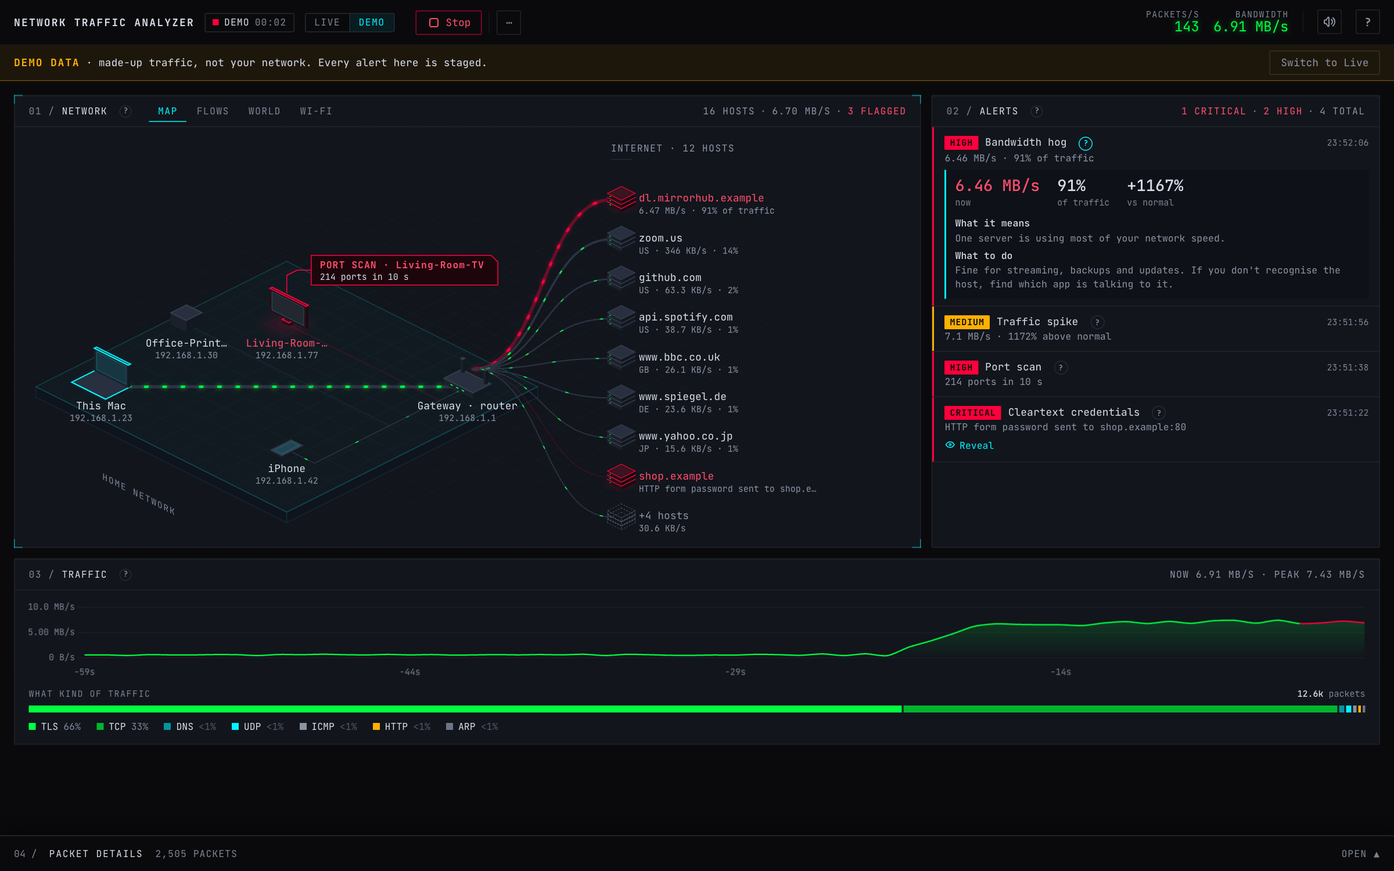
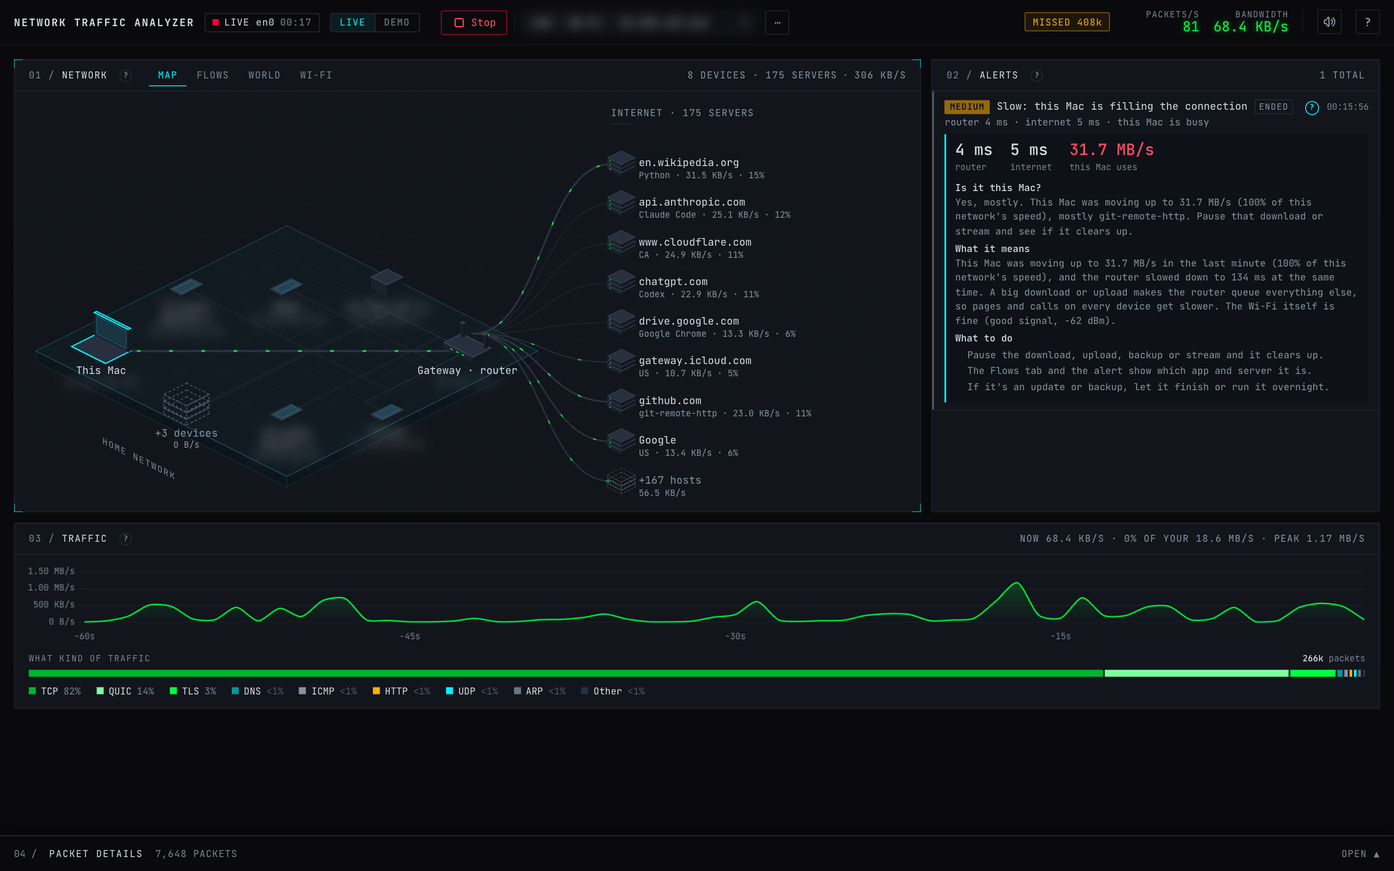
Take the README screenshots from a live capture, with private details blurred
scripts/capture_screenshots.py now photographs the live dashboard instead of
the demo replay. It reuses the recorder's privacy filter (other devices,
this Mac's and the router's addresses, hardware addresses, the hex dump),
extends it to the address card and the Wi-Fi tab, and refuses to save a
picture if anything private is readable or a blur isn't actually rendered
(the dashboard's CSP blocks the filter's style unless bypassed). New
address-card screenshot; the old filter screenshot is gone. README text
and screenshot captions describe the live features, and the World tab
counts servers like the rest of the app.

diff --git a/frontend/js/geomap.js b/frontend/js/geomap.js
@@ -117,7 +117,7 @@ export class GeoMap {
     if (arrived) this.onArrive?.();
     const countries = new Set(items.map((i) => i.cc).filter(Boolean));
     this.stat.textContent = items.length
-      ? `${items.length} HOSTS · ${countries.size} COUNTRIES`
+      ? `${items.length} SERVERS · ${countries.size} COUNTRIES`
       : "";
   }
 

diff --git a/scripts/capture_screenshots.py b/scripts/capture_screenshots.py
@@ -1,18 +1,26 @@
-"""Capture the README screenshots and demo GIF from a running demo server.
+"""Take the README screenshots and GIF from a LIVE capture of this Mac.
 
-1. Start the demo (replay only, so no real traffic ends up in the images, and
-   synthetic Wi-Fi readings so your real network details stay out too):
-       NTA_TOKEN=demo-screenshots-0123 NTA_WIFI_DEMO=1 \
-         scripts/run.sh --replay samples/demo.pcap --loop
+1. Start a live capture with a known token (needs ChmodBPF or sudo):
+       NTA_TOKEN=live-screenshots-0123 scripts/run.sh
 2. In another terminal:
-       NTA_TOKEN=demo-screenshots-0123 .venv/bin/python scripts/capture_screenshots.py
+       NTA_TOKEN=live-screenshots-0123 .venv/bin/python scripts/capture_screenshots.py
 
-Uses your installed Google Chrome through Playwright (no browser download).
+It browses a few public sites in the background so there is always traffic, and runs the
+Wi-Fi tab's speed test once (about 20 s and a few hundred MB), which also shows the
+"this Mac is filling the connection" alert and the speed-limit line.
+
+Privacy: these are pictures of a real network. The page blurs other devices' names and
+addresses, this Mac's own addresses, the router's address, hardware addresses and the hex
+dump (the same filter scripts/record_demo.py uses, plus the address card and the Wi-Fi tab).
+Internet server names stay visible. Before saving anything it checks every visible piece of
+text for another device's name or this Mac's addresses and stops if it finds one. Look at the
+pictures before you publish them anyway.
 """
 
 from __future__ import annotations
 
 import io
+import json
 import os
 import sys
 import time
@@ -21,23 +29,84 @@ from pathlib import Path
 from PIL import Image
 from playwright.sync_api import Page, sync_playwright
 
+sys.path.insert(0, str(Path(__file__).resolve().parent))
+from record_demo import PRIVACY_JS, Traffic, own_addresses  # noqa: E402
+
 ROOT = Path(__file__).resolve().parents[1]
 OUT = ROOT / "docs" / "screenshots"
 BASE = os.environ.get("NTA_URL", "http://localhost:8000")
 TOKEN = os.environ.get("NTA_TOKEN", "")
 SCALE = float(os.environ.get("NTA_SHOT_SCALE", "1.5"))
+IFACE = os.environ.get("NTA_IFACE", "en0")
+SPEED_TEST = os.environ.get("NTA_SPEED_TEST", "1") != "0"
+
+# Private addresses and hardware addresses, anywhere in a piece of text.
+PRIV_SOURCE = (r"(^|[^0-9a-f:])(10\.\d|192\.168\.|172\.(1[6-9]|2\d|3[01])\.|fe80:"
+               r"|[0-9a-f]{1,2}(:[0-9a-f]{1,2}){5})")
+
+# The parts of the dashboard that are newer than the recorder's filter: the address card,
+# the Wi-Fi tab, and the labels under This Mac and the router.
+EXTRA_JS = """
+(() => {
+  if (window.__extraPrivacy) return;
+  window.__extraPrivacy = true;
+  const PRIV = new RegExp(PRIV_SOURCE, 'i');
+  const own = () => (window.__own || []).map((x) => x.toLowerCase());
+  const blur = (el, on) => el.classList.toggle('pn-blur', !!on);
+  // This Mac's and the router's addresses under their labels: a style rule, so a label the
+  // map has just redrawn is never visible for a frame.
+  const st = document.createElement('style');
+  st.textContent = '.node[data-key="self"] .node-sub, .node[data-key="gw"] .node-sub'
+    + '{filter:blur(7px)!important}';
+  document.head.append(st);
+  const risky = (t) => PRIV.test(t) || own().some((x) => t.toLowerCase().includes(x))
+    || (window.__keys || []).some((k) => k && t.includes(k));
+  const run = () => {
+    for (const n of document.querySelectorAll('.node[data-key="self"], .node[data-key="gw"]'))
+      for (const t of n.querySelectorAll('.node-sub')) blur(t, true);
+    const sel = '.ipcard__ip, .ipcard__summary, .ipcard__facts dd, .tile-sub, .wifi-note, '
+      + '.verdict, .wifi-help dd, .alert-row .why, .alert-row .explain span, .hc-sub, '
+      + '.hovercard div, .prow .info, .insp-body .meta, .chip, #nv-stat';
+    for (const el of document.querySelectorAll(sel)) blur(el, risky(el.textContent || ''));
+    // A card about another device names it in the title: hide the whole card.
+    const card = document.querySelector('.ipcard');
+    if (card && !card.hidden) {
+      const title = card.querySelector('.ipcard__title')?.textContent || '';
+      blur(card, (window.__keys || []).some((k) => k && title.includes(k)));
+    }
+  };
+  setInterval(run, 120);
+  run();
+})();
+""".replace("PRIV_SOURCE", json.dumps(PRIV_SOURCE))
 
 
-def wait_for(page: Page, predicate_js: str, timeout: float = 150) -> None:
-    deadline = time.time() + timeout
-    while time.time() < deadline:
-        if page.evaluate(predicate_js):
-            return
+def wait_for(page: Page, js: str, timeout: float = 120) -> bool:
+    end = time.time() + timeout
+    while time.time() < end:
+        if page.evaluate(js):
+            return True
         time.sleep(0.5)
-    raise TimeoutError(f"Timed out waiting for: {predicate_js}")
+    return False
+
+
+def check(page: Page, what: str) -> None:
+    """Stop before saving a picture with something private in it."""
+    page.wait_for_timeout(450)   # one more pass of both filters
+    # Marked is not the same as hidden: make sure the blur really renders.
+    weak = page.evaluate("""[...document.querySelectorAll('.pn-blur, #iface-select')]
+        .filter((e) => e.getClientRects().length && !getComputedStyle(e).filter.includes('blur'))
+        .length""")
+    if weak:
+        raise SystemExit(f"Not saving {what}: {weak} private item(s) are marked but not blurred.")
+    leaks = page.evaluate("(window.__leaks || []).splice(0)")
+    if leaks:
+        raise SystemExit(f"Not saving {what}: private details are visible:\n  "
+                         + "\n  ".join(sorted(set(leaks))[:10]))
 
 
 def shot(page: Page, selector: str | None, name: str) -> None:
+    check(page, name)
     path = OUT / name
     if selector:
         page.locator(selector).first.screenshot(path=str(path))
@@ -46,94 +115,117 @@ def shot(page: Page, selector: str | None, name: str) -> None:
     print(f"  {path.relative_to(ROOT)}")
 
 
+def park(page: Page) -> None:
+    page.mouse.move(820, 560)   # over the empty floor of the map: no tooltip, no hover state
+    page.wait_for_timeout(300)
+
+
 def main() -> int:
     if not TOKEN:
-        print("Set NTA_TOKEN to the token the demo server was started with.")
+        print("Set NTA_TOKEN to the token the live server was started with.")
         return 2
     OUT.mkdir(parents=True, exist_ok=True)
-    with sync_playwright() as pw:
-        browser = pw.chromium.launch(channel="chrome", headless=True)
-        ctx = browser.new_context(viewport={"width": 1600, "height": 1000},
-                                  device_scale_factor=SCALE, color_scheme="dark")
-        # The first-run hint is for people, not for the README pictures.
-        ctx.add_init_script("try{localStorage.setItem('nta-firstrun-dismissed','1')}catch(e){}")
-        page = ctx.new_page()
-        page.goto(f"{BASE}/?t={TOKEN}")
-        page.wait_for_selector("#netview svg")
-        print("Waiting for the demo's incidents (bandwidth hog, port scan, cleartext login)…")
-        wait_for(page, "document.querySelector('#nv-stat')?.textContent.includes('3 FLAGGED')")
-        wait_for(page, "document.querySelectorAll('.alert-row').length >= 4")
-        time.sleep(2.5)
+    traffic = Traffic()
+    traffic.start()
+    try:
+        with sync_playwright() as pw:
+            browser = pw.chromium.launch(channel="chrome", headless=True)
+            # bypass_csp: the dashboard's CSP would block the filter's blur style, leaving
+            # everything marked "blurred" but perfectly readable.
+            ctx = browser.new_context(viewport={"width": 1600, "height": 1000},
+                                      device_scale_factor=SCALE, color_scheme="dark",
+                                      bypass_csp=True)
+            ctx.add_init_script("try{localStorage.setItem('nta-firstrun-dismissed','1')}"
+                                "catch(e){}")
+            page = ctx.new_page()
+            page.goto(f"{BASE}/?t={TOKEN}")
+            page.wait_for_selector("#netview svg")
+            page.evaluate(f"window.__own = {own_addresses(IFACE)!r}")
+            page.evaluate(PRIVACY_JS)
+            page.evaluate(EXTRA_JS)
+            if "Start" in page.locator("#btn-capture").inner_text():
+                page.click("#btn-capture")
+            if not wait_for(page, "document.body.textContent.includes('LIVE')", 20):
+                raise SystemExit("Live capture didn't start (permission? see the terminal).")
 
-        # Show the hog's details (its numbers, what it means, what to do) in the alert list.
-        hog_row = page.locator(".alert-row", has_text="Bandwidth hog").first
-        if hog_row.locator(".explain").is_hidden():
-            hog_row.locator(".info-btn").click()
-        page.mouse.move(800, 900)   # park the pointer so no tooltip or hover state is captured
-        time.sleep(0.6)
+            print("Collecting traffic and Wi-Fi readings…")
+            page.click("#tab-wifi")
+            time.sleep(12)
+            if SPEED_TEST:
+                print("Running the speed test (about 20 s)…")
+                page.locator(".wifi-speed .btn").click()
+                wait_for(page, "!document.querySelector('.wifi-speed .btn')?.disabled", 120)
+                time.sleep(15)       # let the alert settle after the test
+            park(page)
+            print("Saving screenshots:")
+            shot(page, "#panel-network", "netview-wifi.png")
 
-        print("Saving screenshots:")
-        shot(page, None, "dashboard.png")
-        shot(page, "#panel-network", "netview-map.png")
+            page.click("#tab-map")
+            time.sleep(4)
+            row = page.locator(".alert-row").first
+            if row.count() and row.locator(".info-btn").count() \
+                    and row.locator(".explain").is_hidden():
+                row.locator(".info-btn").click()
+            park(page)
+            shot(page, None, "dashboard.png")
+            shot(page, "#panel-network", "netview-map.png")
+            shot(page, "#panel-alerts", "alerts.png")
+            shot(page, "#panel-traffic", "traffic.png")
 
-        hog = page.locator(".node.is-high[data-key^='h:5.']").first
-        if hog.count():
-            hog.hover()
-            time.sleep(0.4)
+            column_label = ".node-label[text-anchor='start'], .node-label:not([text-anchor])"
+            server = page.locator(".node[data-key^='h:']").filter(
+                has=page.locator(column_label))
+            target = server.first if server.count() else page.locator(".node[data-key^='h:']").last
+            target.hover()
+            time.sleep(0.6)
             shot(page, "#panel-network", "netview-hover.png")
-            page.mouse.move(800, 900)
+            target.click()
+            wait_for(page, "!document.querySelector('.ipcard__summary.is-loading')", 15)
+            time.sleep(0.6)
+            shot(page, None, "ipcard.png")
+            page.keyboard.press("Escape")
+            park(page)
 
-        page.click("#tab-flows")
-        page.mouse.move(800, 900)
-        time.sleep(1.2)
-        shot(page, "#panel-network", "netview-flows.png")
-        page.click("#tab-world")
-        page.mouse.move(800, 900)   # off the tab, so its tooltip isn't in the picture
-        time.sleep(2.0)
-        shot(page, "#panel-network", "netview-world.png")
-        page.click("#tab-wifi")
-        print("  (collecting Wi-Fi demo readings…)")
-        time.sleep(24)
-        shot(page, "#panel-network", "netview-wifi.png")
-        page.click("#tab-map")
-        time.sleep(0.5)
-        page.mouse.move(800, 900)
+            page.click("#tab-flows")
+            time.sleep(1.5)
+            park(page)
+            shot(page, "#panel-network", "netview-flows.png")
+            page.click("#tab-world")
+            time.sleep(2.5)
+            park(page)
+            shot(page, "#panel-network", "netview-world.png")
+            page.click("#tab-map")
+            time.sleep(1)
 
-        shot(page, "#panel-alerts", "alerts.png")
-        shot(page, "#panel-traffic", "traffic.png")
+            page.click("#drawer-toggle")
+            time.sleep(1.2)
+            page.locator(".prow").nth(4).click()
+            time.sleep(1)
+            page.mouse.move(800, 120)
+            shot(page, None, "drawer.png")
+            shot(page, "#drawer-body", "inspector.png")
+            page.click("#drawer-toggle")
+            park(page)
 
-        # The packet drawer opens by itself when you pick something; here we open it by hand.
-        page.click("#drawer-toggle")
-        page.fill("#filter-input", "ip == 192.168.1.77 and proto == TCP")
-        time.sleep(0.6)
-        shot(page, "#drawer-body", "filter.png")
-
-        page.fill("#filter-input", "proto == HTTP and info contains POST")
-        time.sleep(0.6)
-        page.locator(".prow").first.click()
-        time.sleep(0.8)
-        shot(page, "#drawer-body", "inspector.png")
-        page.mouse.move(800, 100)
-        shot(page, None, "drawer.png")
-        page.fill("#filter-input", "")
-        page.click("#drawer-toggle")
-
-        print("Recording the demo GIF…")
-        frames = []
-        panel = page.locator("#panel-network")
-        for _ in range(28):
-            png = panel.screenshot(scale="css")
-            frames.append(Image.open(io.BytesIO(png)).convert("RGB"))
-            time.sleep(0.12)
-        width = 960
-        frames = [f.resize((width, int(f.height * width / f.width)), Image.LANCZOS) for f in frames]
-        pal = frames[0].quantize(colors=128, method=Image.Quantize.MEDIANCUT)
-        frames_p = [f.quantize(palette=pal, dither=Image.Dither.NONE) for f in frames]
-        gif = OUT / "demo.gif"
-        frames_p[0].save(gif, save_all=True, append_images=frames_p[1:], duration=140, loop=0,
-                         optimize=True)
-        print(f"  {gif.relative_to(ROOT)} ({gif.stat().st_size // 1024} KB)")
-        browser.close()
+            print("Recording the map GIF…")
+            frames = []
+            panel = page.locator("#panel-network")
+            for _ in range(28):
+                check(page, "demo.gif")
+                frames.append(Image.open(io.BytesIO(panel.screenshot(scale="css"))).convert("RGB"))
+                time.sleep(0.12)
+            width = 960
+            frames = [f.resize((width, int(f.height * width / f.width)), Image.LANCZOS)
+                      for f in frames]
+            pal = frames[0].quantize(colors=128, method=Image.Quantize.MEDIANCUT)
+            frames_p = [f.quantize(palette=pal, dither=Image.Dither.NONE) for f in frames]
+            gif = OUT / "demo.gif"
+            frames_p[0].save(gif, save_all=True, append_images=frames_p[1:], duration=140,
+                             loop=0, optimize=True)
+            print(f"  {gif.relative_to(ROOT)} ({gif.stat().st_size // 1024} KB)")
+            browser.close()
+    finally:
+        traffic.stop.set()
     return 0
 
 

diff --git a/README.md b/README.md
@@ -7,15 +7,17 @@
 
 **A live look at what my Mac is actually saying on the network.** When something looks off, the part of the network that's causing it turns red.
 
-![The dashboard in demo mode: a bandwidth hog, a port-scanning smart TV and a password sent over plain HTTP, all flagged](docs/screenshots/dashboard.png)
+![The dashboard on a live capture of my Mac: the map of my network and the servers it talks to, and an alert explaining that the Wi-Fi got slow because this Mac was filling the connection](docs/screenshots/dashboard.png)
 
-**[Watch the 90-second demo video](docs/demo/network-traffic-analyzer-demo.mp4)**: recorded on a real, live capture of my own Mac, not the staged demo data above.
+Every picture here is a live capture of my own Mac. Other people's devices, my addresses and hardware addresses are blurred.
+
+**[Watch the 90-second demo video](docs/demo/network-traffic-analyzer-demo.mp4)**: also recorded live (it shows an earlier version of the layout).
 
 **Jump to:** [Features](#features) · [Run it](#get-it-running-on-macos) · [Docker](#docker-optional) · [Screenshots](#screenshots) · [Filters](#filter-cheat-sheet) · [Documentation](#documentation) · [Project structure](#project-structure)
 
 ## Why I built it
 
-I wanted to see what my Mac is actually doing on the network in real time. Wireshark can answer that, but it's a wall of packets, and I wanted something I could glance at. So I built a dashboard that captures my Mac's traffic live and draws my home network as a little 3D map: my Mac, the router, the other devices on my Wi-Fi, and every server on the internet I'm talking to. Normal traffic flows along the lines in green. When something's wrong (one server hogging the bandwidth, a device scanning my ports, a password going out without encryption), that node turns red and a card in the corner tells me what happened in plain words.
+I wanted to see what my Mac is actually doing on the network in real time. Wireshark can answer that, but it's a wall of packets, and I wanted something I could glance at. So I built a dashboard that captures my Mac's traffic live and draws my home network as a little 3D map: my Mac, the router, the other devices on my Wi-Fi, and every server on the internet I'm talking to. Normal traffic flows along the lines in green. When something's wrong (one server hogging the bandwidth, a device scanning my ports, a password going out without encryption), that node turns red and an alert tells me what happened in plain words. And when the internet feels slow, it tells me whether it's the Wi-Fi, the internet connection, or my own Mac filling the connection.
 
 ![The network map animating](docs/screenshots/demo.gif)
 
@@ -142,21 +144,21 @@ That profile uses host networking, keeps the dashboard on `127.0.0.1`, and only 
 
 ## Screenshots
 
-|                                                                                                     |                                                                                                                               |
-| --------------------------------------------------------------------------------------------------- | ----------------------------------------------------------------------------------------------------------------------------- |
-| ![Network map](docs/screenshots/netview-map.png) **Map:** your network in 3D. Red means look here.  | ![Hover card](docs/screenshots/netview-hover.png) **Hover a host** for its rate, share, first-seen time and a 60 s sparkline. |
-| ![Flows](docs/screenshots/netview-flows.png) **Flows:** who's using your bandwidth, sized by share. | ![Alerts](docs/screenshots/alerts.png) **Alerts** in plain words: open one for the numbers, what it means and what to do.                         |
-| ![Filter](docs/screenshots/filter.png) **Filter** to one device and protocol.                       | ![Inspector](docs/screenshots/inspector.png) **Inspector** with decoded layers and a Hex/ASCII dump.                          |
-| ![World tab](docs/screenshots/netview-world.png) **World:** where the servers you talk to are. | ![Wi-Fi check](docs/screenshots/netview-wifi.png) **Wi-Fi check:** one plain answer about why it's slow (demo readings shown). |
-| ![Traffic](docs/screenshots/traffic.png) **Traffic:** bandwidth and what kind of traffic it is. | ![Packet details drawer](docs/screenshots/drawer.png) **Packet details** slides up from the bottom when you click a device or alert. |
+| | |
+| --- | --- |
+| ![Network map](docs/screenshots/netview-map.png) **Map:** this Mac, the router, the other devices on the network (blurred here) and the servers it talks to, with the app using each one. | ![What is this? card](docs/screenshots/ipcard.png) **Click anything** for a plain-English card: who runs it, where it is and what it does. |
+| ![Alerts](docs/screenshots/alerts.png) **Alerts** in plain words, including when the network is slow and whether this Mac is the cause. | ![Wi-Fi check](docs/screenshots/netview-wifi.png) **Wi-Fi tab:** signal, router and internet response times, one plain verdict, and this network's measured speed. |
+| ![Flows](docs/screenshots/netview-flows.png) **Flows:** who's using your bandwidth, sized by share. | ![Hover card](docs/screenshots/netview-hover.png) **Hover a server** for its rate right now and over the last minute, its share and a 60 s sparkline. |
+| ![Traffic](docs/screenshots/traffic.png) **Traffic:** bandwidth, how full the connection is compared with your speed test, and what kind of traffic it is. | ![World tab](docs/screenshots/netview-world.png) **World:** where the servers you talk to are. |
+| ![Packet details drawer](docs/screenshots/drawer.png) **Packet details** in plain words ("Got it": confirming data arrived), from the bottom of the window. | ![Inspector](docs/screenshots/inspector.png) **Inspector** with a plain summary, decoded layers and a Hex/ASCII dump. |
 
-Every screenshot comes from the bundled demo capture and synthetic Wi-Fi readings, so none of them show a real network. To regenerate them, start the demo with `NTA_TOKEN=demo-screenshots-0123 NTA_WIFI_DEMO=1` (tokens must be at least 16 characters) and run `scripts/capture_screenshots.py`.
+These are live captures of my Mac, taken by `scripts/capture_screenshots.py`. It blurs other devices' names and addresses, this Mac's and the router's addresses, hardware addresses and the hex dump, and it refuses to save a picture if anything private is still readable. Internet server names stay visible. To take your own: start the app with `NTA_TOKEN=live-screenshots-0123 scripts/run.sh` and run `NTA_TOKEN=live-screenshots-0123 .venv/bin/python scripts/capture_screenshots.py` (it runs the speed test once; `NTA_SPEED_TEST=0` skips it).
 
 ## Everyday uses
 
-- **Figuring out why the Wi-Fi is slow.** Open the Wi-Fi tab while it feels slow. It tells you whether it's the signal (move closer), the Wi-Fi being busy or spiky (another device or a crowded channel), or the internet past your router (modem or provider).
+- **Figuring out why the internet is slow.** During a live capture you get an alert when it gets slow, saying whether it's the signal (move closer), the Wi-Fi being busy or spiky (another device or a crowded channel), the internet past your router (modem or provider), or this Mac filling the connection (and which app). Run the speed test once on each network you use so it knows how fast that network really is.
 - **Checking for VPN leaks.** Connect your VPN and capture on `en0`. Nearly everything should go to your VPN server. Anything else gets flagged as a possible leak.
-- **Finding what's eating your bandwidth.** The Flows tab ranks every host by share. Spot the hog, click it, and the packet table filters down to that host.
+- **Finding what's eating your bandwidth.** The Flows tab ranks every server by share and names the app on your Mac using it. Spot the hog, click it, and the packet table filters down to that server.
 - **Catching logins without encryption.** Any password, token or cookie sent over plain HTTP, FTP, POP3, IMAP or SMTP shows up as a critical alert (masked until you click Reveal).
 - **Seeing what your smart devices do.** TVs, printers and speakers show up on the map with their own names, so you can see who they talk to.
 - **Analysing a `.pcap`.** Open a capture from Wireshark or `tcpdump` with "Open file" and get the same map, alerts and charts in a couple of seconds.

diff --git a/scripts/README.md b/scripts/README.md
@@ -25,5 +25,5 @@ Everything here is run from the project root, for example `scripts/run.sh`.
 | Script                    | Does                                                                                           |
 | ------------------------- | ---------------------------------------------------------------------------------------------- |
 | `make_demo_pcap.py`       | rebuilds `samples/demo.pcap`: 90 seconds of made-up home traffic with a password sent over HTTP, a port scan and a bandwidth hog |
-| `capture_screenshots.py`  | takes the README screenshots and GIF from a running demo (the docstring has the commands)      |
+| `capture_screenshots.py`  | takes the README screenshots and GIF from a live capture, blurring anything private (the docstring has the commands) |
 | `record_demo.py`          | records the 90-second video of the live app. It blurs other devices and checks for leaks while it records, so read its docstring before running it on your own network |

diff --git a/docs/README.md b/docs/README.md
@@ -15,5 +15,5 @@ Start with the [project README](../README.md) to run the app. These pages go dee
 
 | Folder                       | What's in it                                                                        | Made by                          |
 | ---------------------------- | ----------------------------------------------------------------------------------- | -------------------------------- |
-| [screenshots/](screenshots/) | the pictures and GIF used in the README (from the bundled demo, so no real network) | `scripts/capture_screenshots.py` |
+| [screenshots/](screenshots/) | the pictures and GIF used in the README (a live capture, with other devices and private addresses blurred) | `scripts/capture_screenshots.py` |
 | [demo/](demo/)               | the 90-second walkthrough video, recorded on a live capture                         | `scripts/record_demo.py`         |
